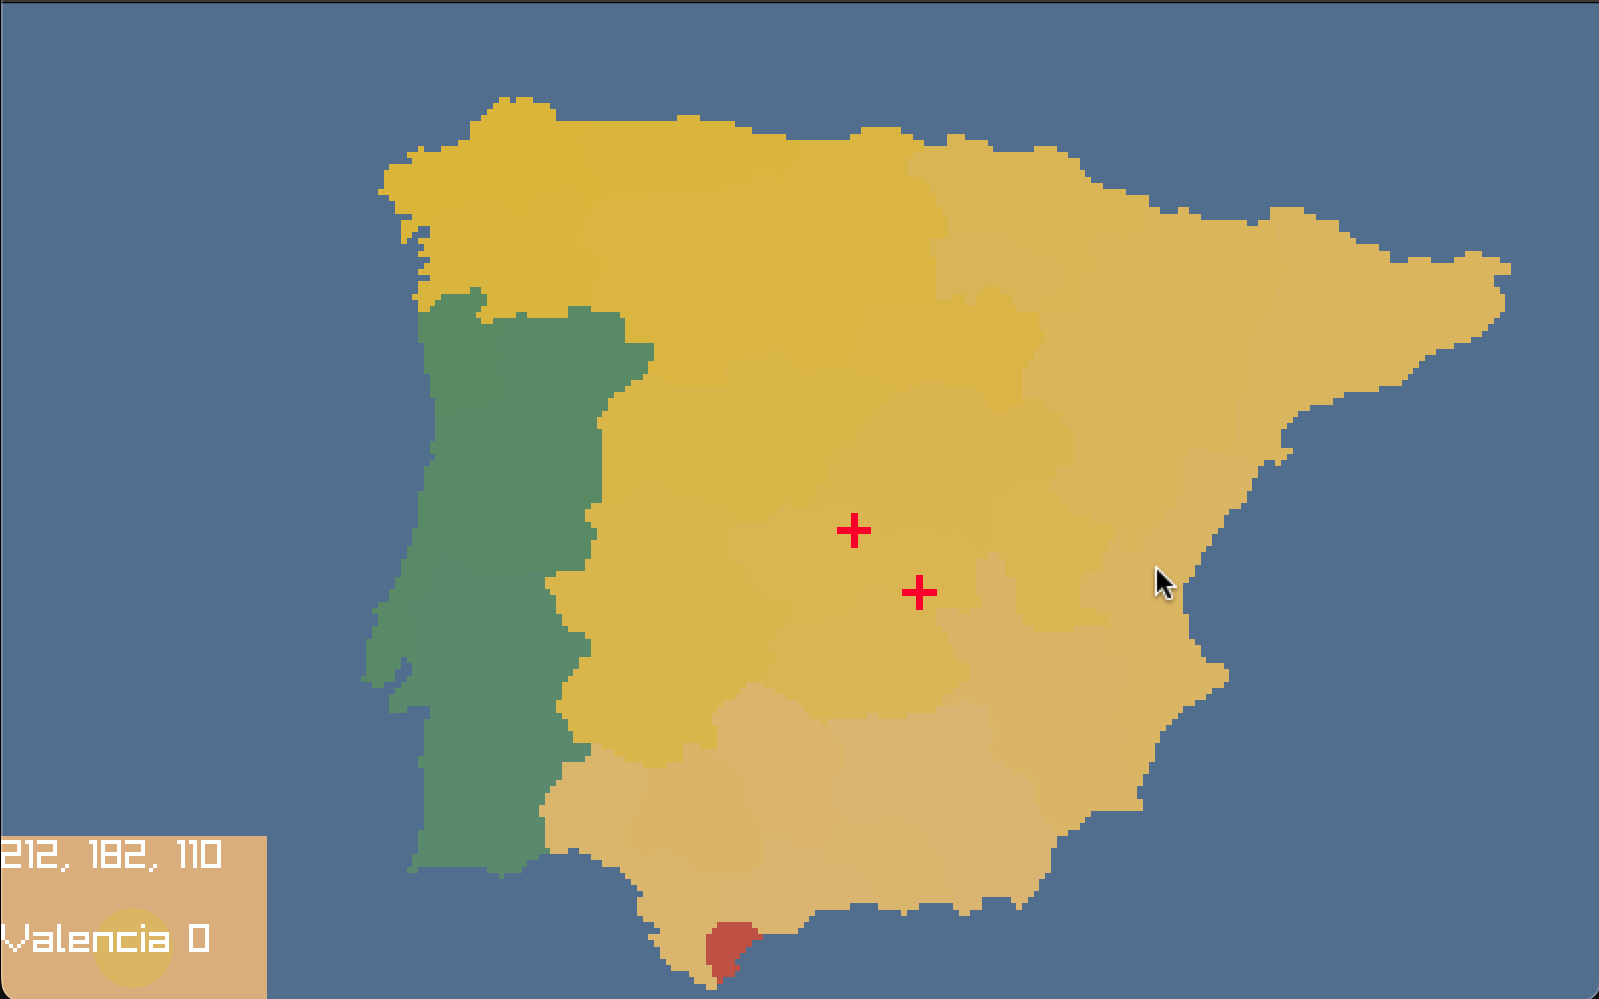
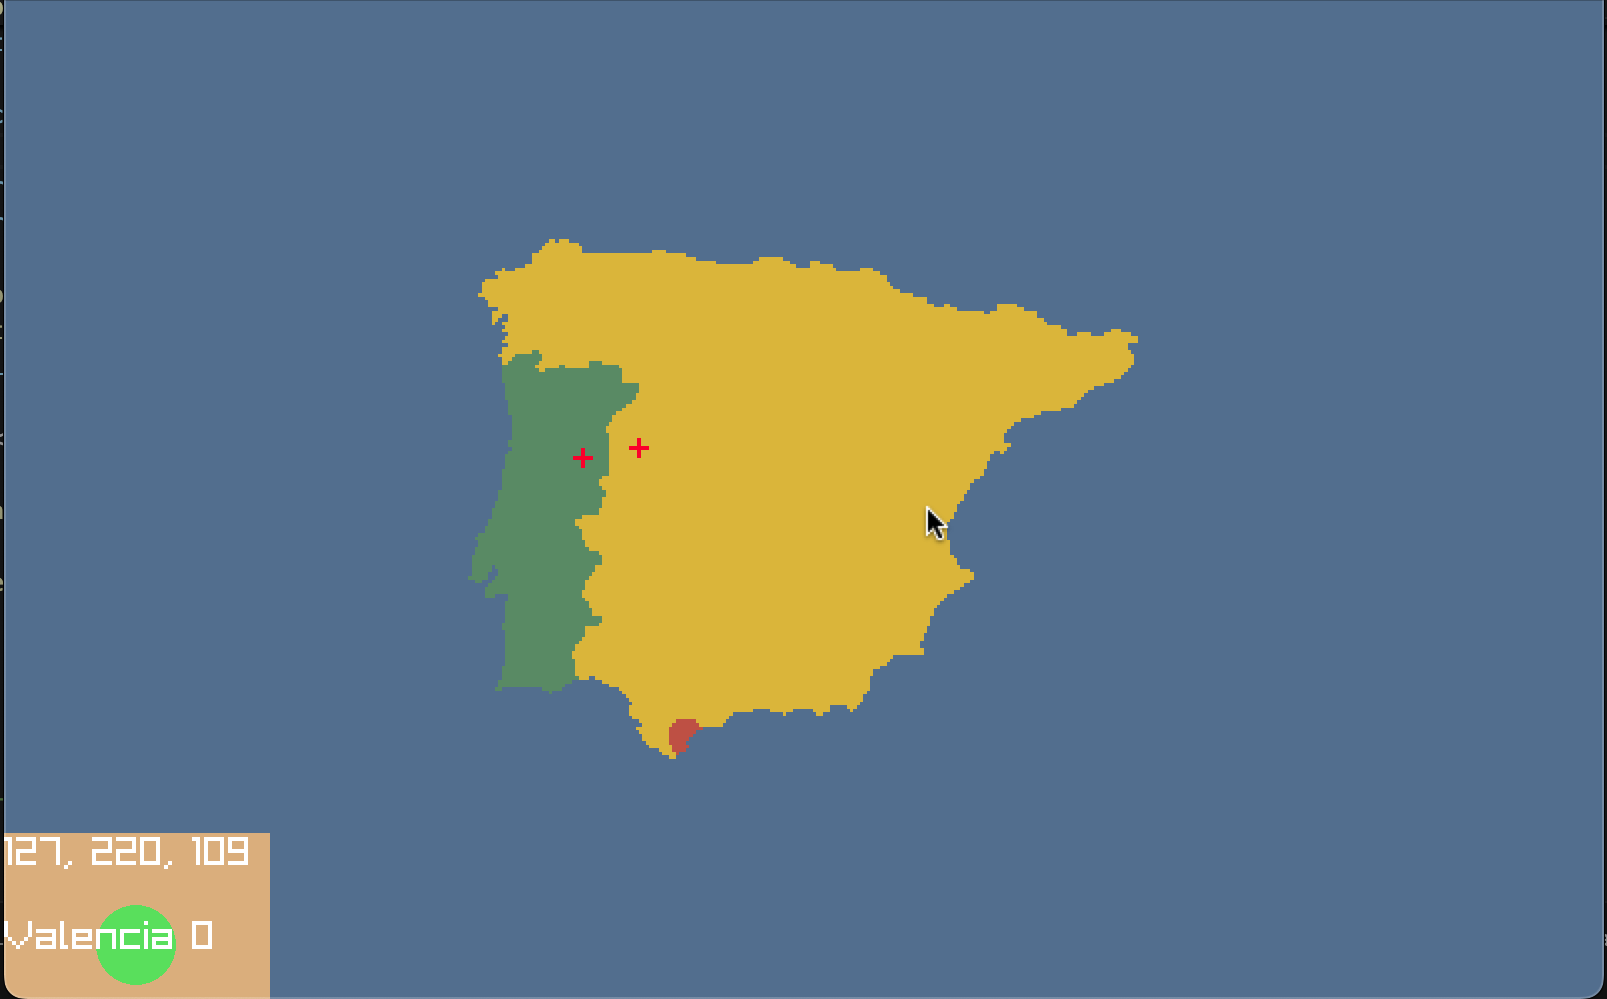
Add files via upload

diff --git a/main.c b/main.c
@@ -110,24 +110,18 @@ int main ()
     }
 
     Color colours[3] = {{212, 182, 82, 255}, {177, 87, 73, 255}, {100, 137, 103, 255}};
-    int tally[3] = {0, 0, 0};
-    Color oldcolour;
-    
-    Image spainImage = LoadImage("spain.png");     // Loaded in CPU memory (RAM)
+
+    Image gameMap = LoadImage("spain.png");     // Loaded in CPU memory (RAM)
 
     for (int i = 0; i < 53; i++)
     {
-        oldcolour = provinces[i].colour;
-        provinces[i].colour = colours[provinces[i].ownerID];
-        provinces[i].colour.b += tally[provinces[i].ownerID];
-        tally[provinces[i].ownerID]++;
-        ImageColorReplace(&spainImage, oldcolour , provinces[i].colour);
+        ImageColorReplace(&gameMap, provinces[i].colour, colours[provinces[i].ownerID]);
     }
 
+    Texture2D spainTexture = LoadTextureFromImage(gameMap);          // Image converted to texture, GPU memory (VRAM)
 
-    Texture2D spainTexture = LoadTextureFromImage(spainImage);          // Image converted to texture, GPU memory (VRAM)
+    Image imageMap = LoadImage("spain.png");     // Loaded in CPU memory (RAM)
 
-    Image screenshotImage;
     Color colour;
 
     Camera2D camera = { 0 };
@@ -147,8 +141,6 @@ int main ()
     {
         // Update
         //----------------------------------------------------------------------------------
-
-        screenshotImage = LoadImageFromScreen();
 
         if ( IsKeyPressed(KEY_F))
         {
@@ -182,6 +174,8 @@ int main ()
 
         Vector2 delta = {0};
         Vector2 mousePosition = GetMousePosition();
+        Vector2 mouseWorldPos =  GetScreenToWorld2D(GetMousePosition(), camera);
+
         int moveSpeed = 10;
 
         if (mousePosition.x < (screenWidth/10))
@@ -215,31 +209,30 @@ int main ()
         
         delta = Vector2Scale(delta, -1.0f/camera.zoom);
         camera.target = Vector2Add(camera.target, delta);
-        
-
 
         camera.target.x = Clamp(camera.target.x, 0 , screenWidth);
         camera.target.y = Clamp(camera.target.y, 0 , screenHeight);
         
-
         printf("Camera offset x:%.6f\nCamera offset y:%.6f\nCamera target x:%.6f\nCamera target y:%.6f\nCamera zoom:%.6f\n", camera.offset.x, camera.offset.y, camera.target.x, camera.target.y, camera.zoom);
 
         float wheel = GetMouseWheelMove();
+
         if (wheel != 0)
         {
 
-            Vector2 mouseWorldPos = GetScreenToWorld2D(GetMousePosition(), camera);
+            // Set the offset to where the mouse is
+            camera.offset = GetMousePosition();
 
-                // Set the offset to where the mouse is
-                camera.offset = GetMousePosition();
+            // Set the target to match, so that the camera maps the world space point 
+            // under the cursor to the screen space point under the cursor at any zoom
+            camera.target = mouseWorldPos;
 
-                // Set the target to match, so that the camera maps the world space point 
-                // under the cursor to the screen space point under the cursor at any zoom
-                camera.target = mouseWorldPos;
-
-                // Zoom increment
-                float scaleFactor = 1.0f + (0.25f*fabsf(wheel));
-                if (wheel < 0) scaleFactor = 1.0f/scaleFactor;
+            // Zoom increment
+            float scaleFactor = 1.0f + (0.25f*fabsf(wheel));
+            if (wheel < 0)
+            {
+                scaleFactor = 1.0f/scaleFactor;
+            }
             camera.zoom = Clamp(camera.zoom*scaleFactor, 1.0f, 5.0f);
         }
 
@@ -265,7 +258,10 @@ int main ()
         int rectangleWidth = screenWidth/6;
         DrawRectangle(0, screenHeight-rectangleHeight, rectangleWidth, rectangleHeight, BEIGE);
 
-        colour = GetImageColor(screenshotImage, mousePosition.x*2, mousePosition.y*2);
+        float getImageColorx = mouseWorldPos.x/screenWidth*478;
+        float getImageColory = mouseWorldPos.y/screenHeight*279;
+
+        colour = GetImageColor(imageMap, getImageColorx, getImageColory);
         DrawText(TextFormat("%d, %d, %d", colour.r, colour.g, colour.b), 0, screenHeight-rectangleHeight, 20, WHITE);
         DrawCircle(screenWidth/12, screenHeight-rectangleHeight/3, 20, colour);
 
@@ -280,10 +276,10 @@ int main ()
 
         EndDrawing();
         //----------------------------------------------------------------------------------
-        UnloadImage(screenshotImage);
     }
 
-    UnloadImage(spainImage);   // Once image has been converted to texture and uploaded to VRAM, it can be unloaded from RAM
+    UnloadImage(gameMap);   // Once image has been converted to texture and uploaded to VRAM, it can be unloaded from RAM
+    UnloadImage(imageMap);
 
     // De-Initialization
     //--------------------------------------------------------------------------------------
